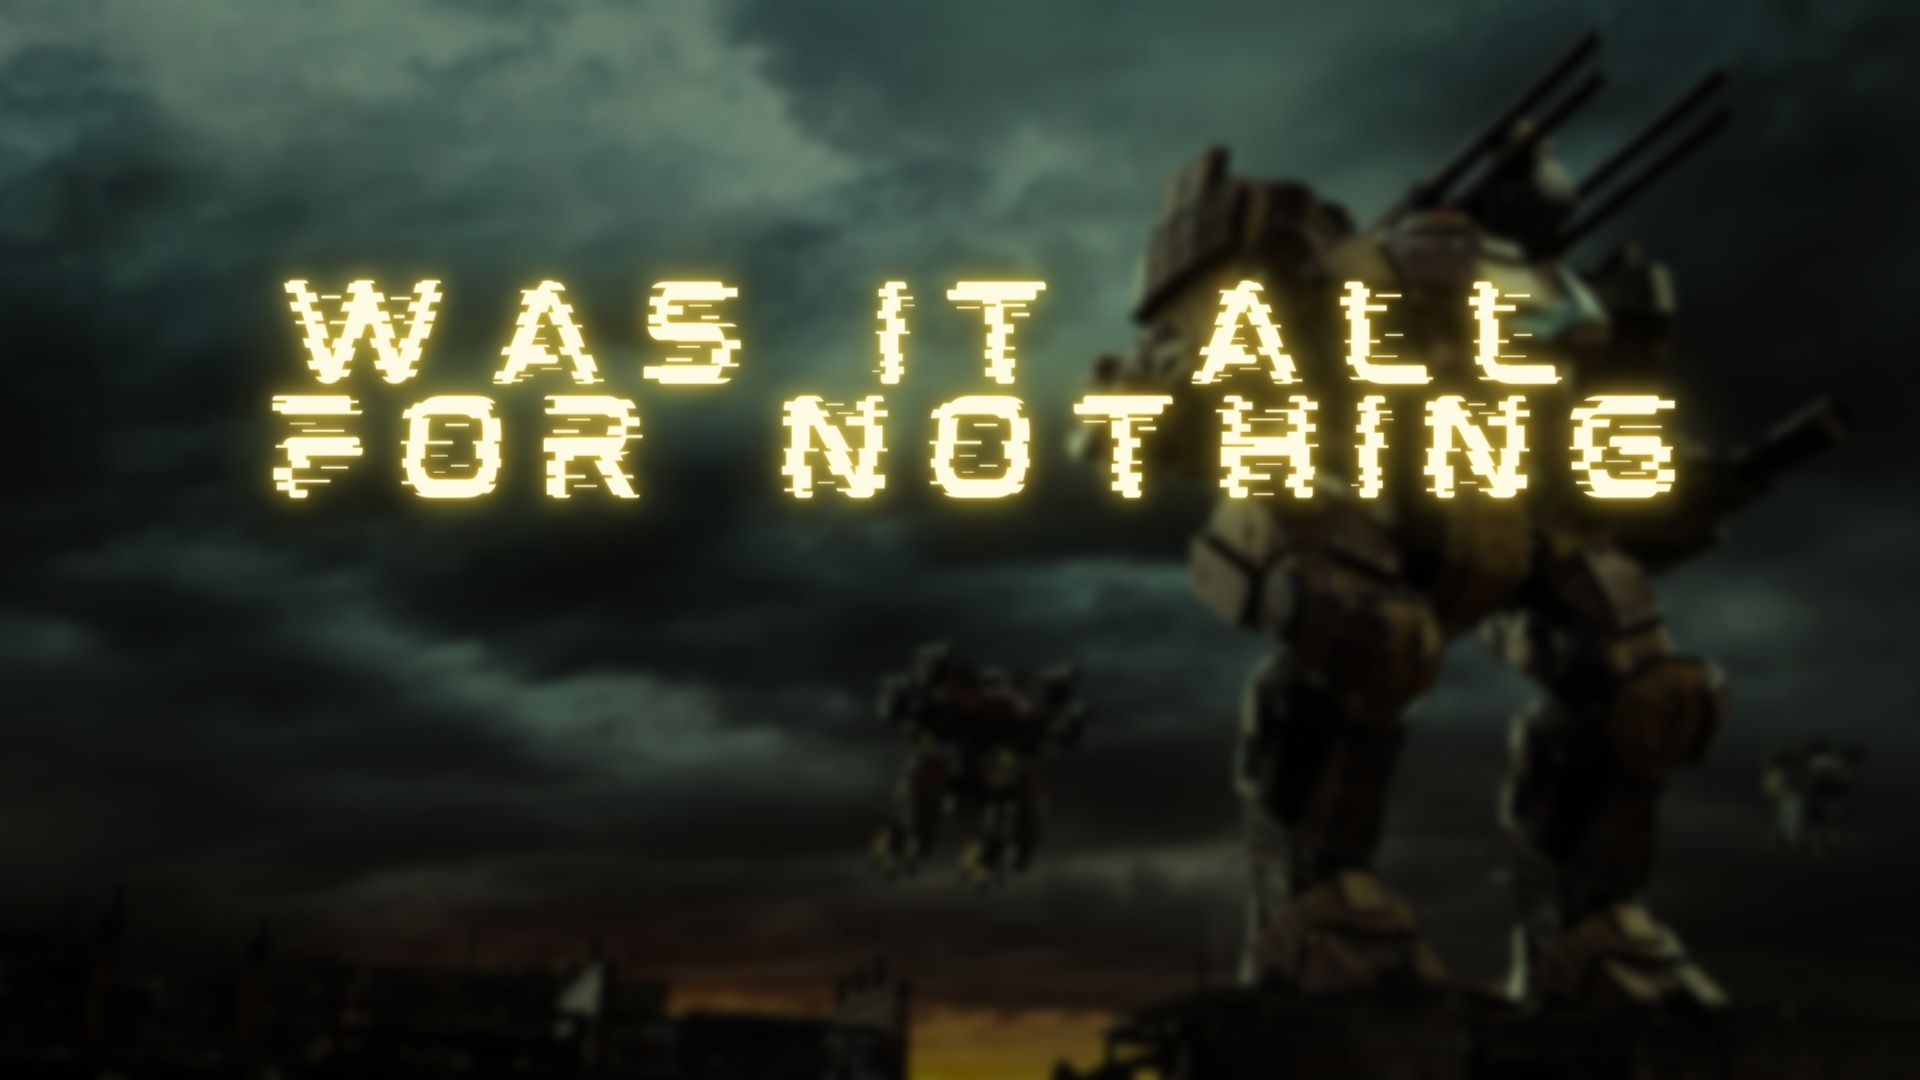
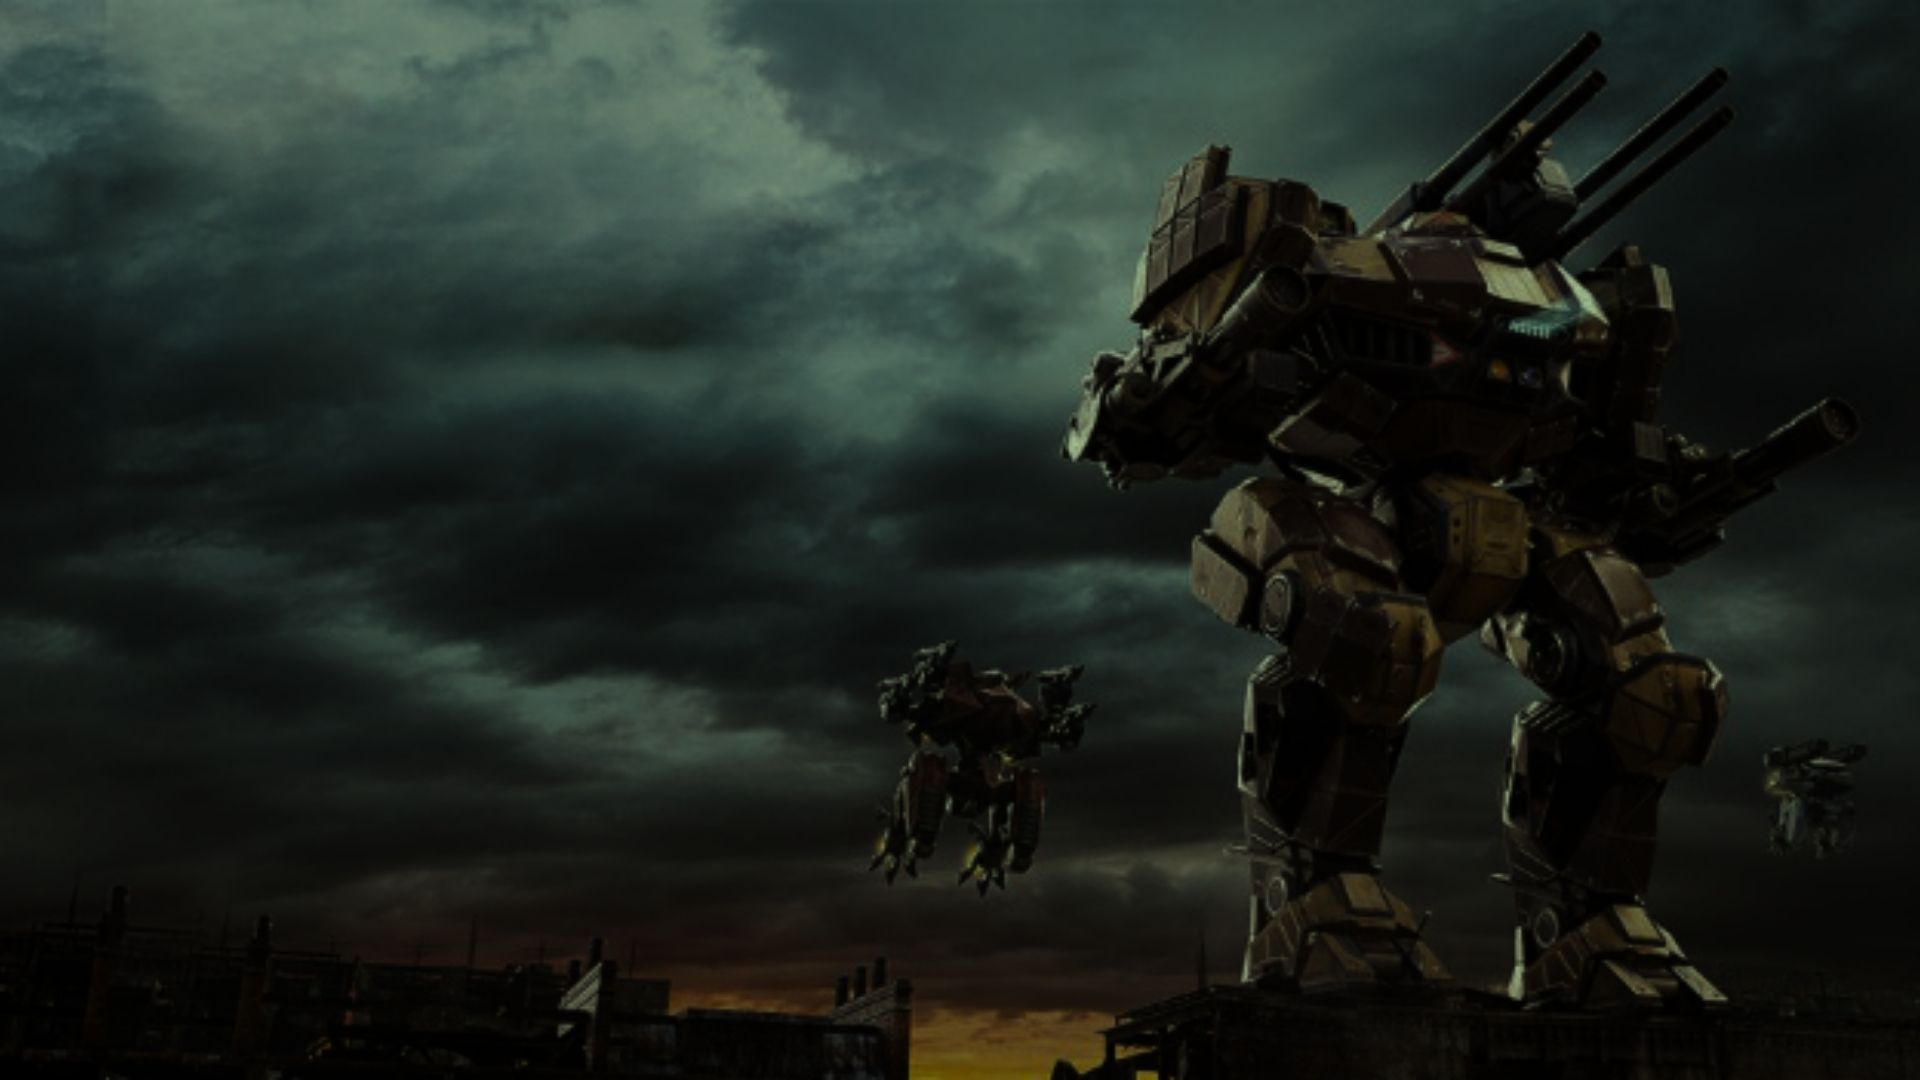
Some unnecessary files removed.

diff --git a/docs/index.html b/docs/index.html
@@ -13,7 +13,7 @@
   <div class="slideshow-container">
 
     <div class="mySlides fade">
-      <img src="imgs/first/bg2.jpg" style="width:100%">
+      <img src="imgs/first/bg.jpg" style="width:100%">
     </div>
     
     <div class="mySlides fade">
@@ -22,6 +22,10 @@
     
     <div class="mySlides fade">
       <img src="imgs/first/WIAFN.jpg" style="width:100%">
+    </div>
+
+    <div class="mySlides fade">
+      <img src="imgs/first/ingame.png" style="width:100%">
     </div>
   
   </div>
